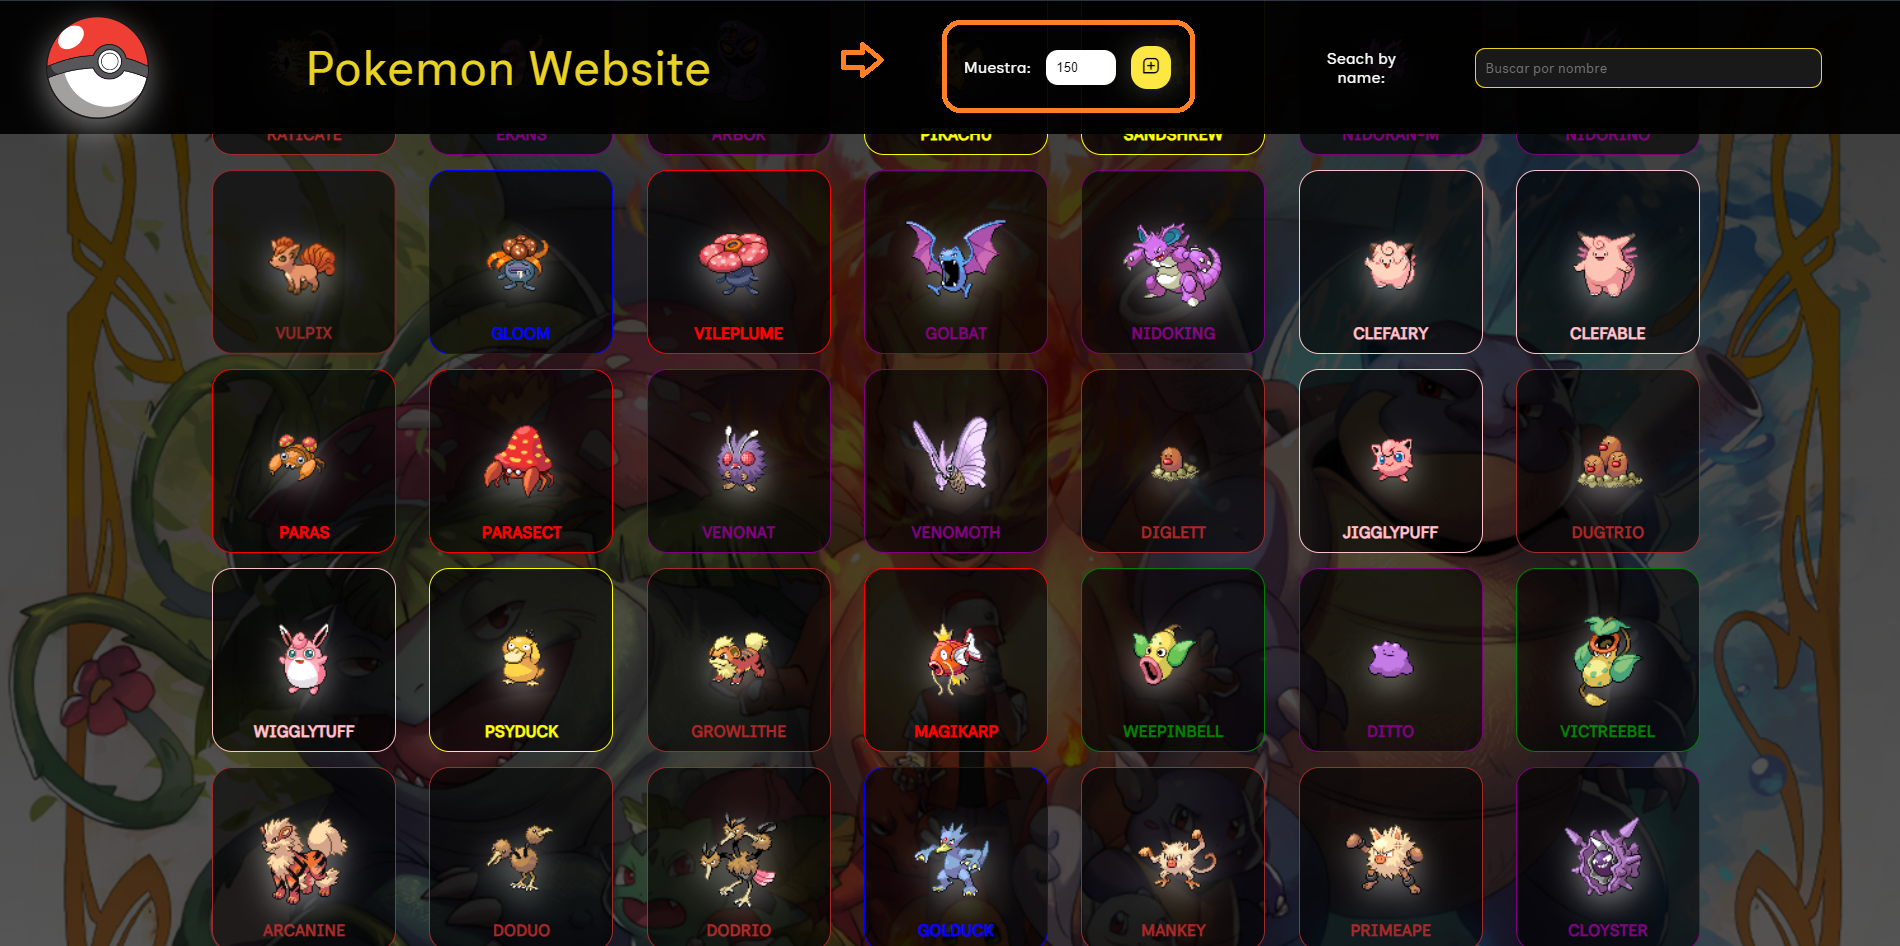
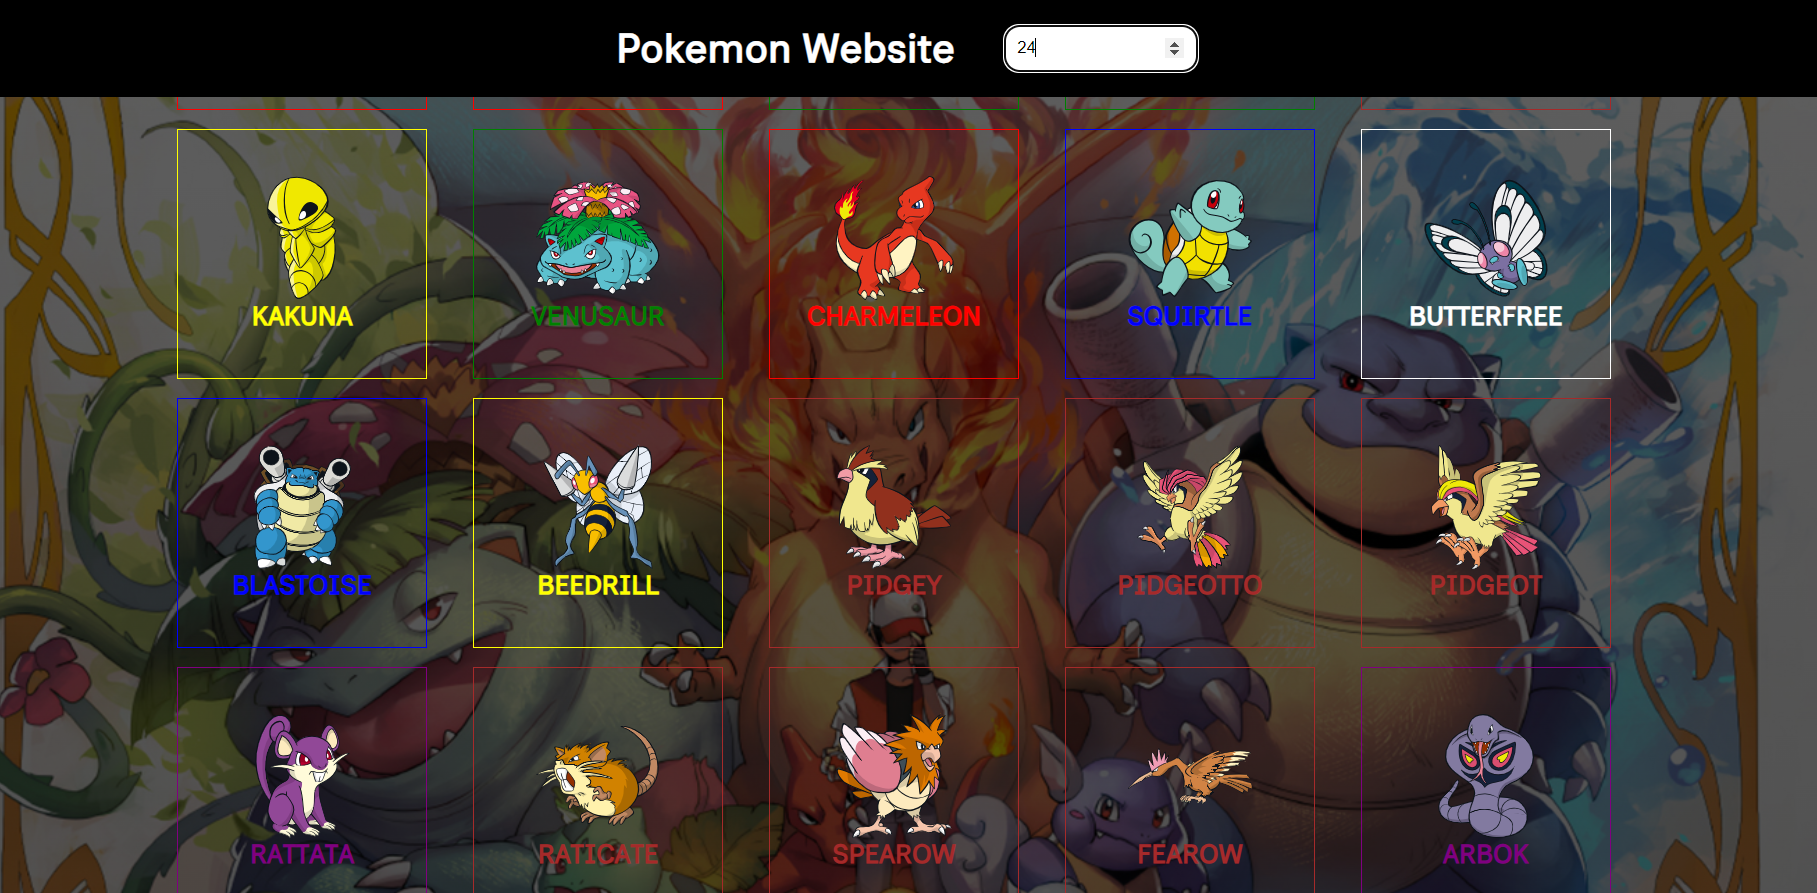
docs: :memo: Fix the README.md with the new code

diff --git a/README.md b/README.md
@@ -7,9 +7,8 @@ Educational website for interacturing with an API and MockAPI
 ### Platform Description
 
 - section 1: Title
-- section 2: Input for Search the pokemon by name
-- section 3: Input for Filter the Pokemon by cuantity
-- section 4: Show the Cards
+- section 2: Input for Filter the Pokemon by cuantity
+- section 3: Show the Cards
 
 ### How to used
 
@@ -39,11 +38,6 @@ fontFamily: "Inclusive Sans", sans-serif;
 <h4>Filter by Limit</h4>
 <p>The filter view. One of the filters works by number. You enter a number and It's going to show the pokemons from 0 until the number.</p>
 <div align="center"><img src="imagenes/../images/filtro-number.PNG" alt="NAV" style="height: 350px;" /></div>
-
-
-<h4>Filter by Name</h4>
-<p>Another way to filter the searching mode is by name. Be free, you will going to see whatever pokemon with some of letters.</p>
-<div align="center"><img src="imagenes/../images/filtro-palabra.PNG" alt="NAV" style="height: 350px;" /></div>
 
 <h4>Card</h4>
 <p>The card is going to play it, feel free to move the radio input and put or take off exp for the pokemon</p>
